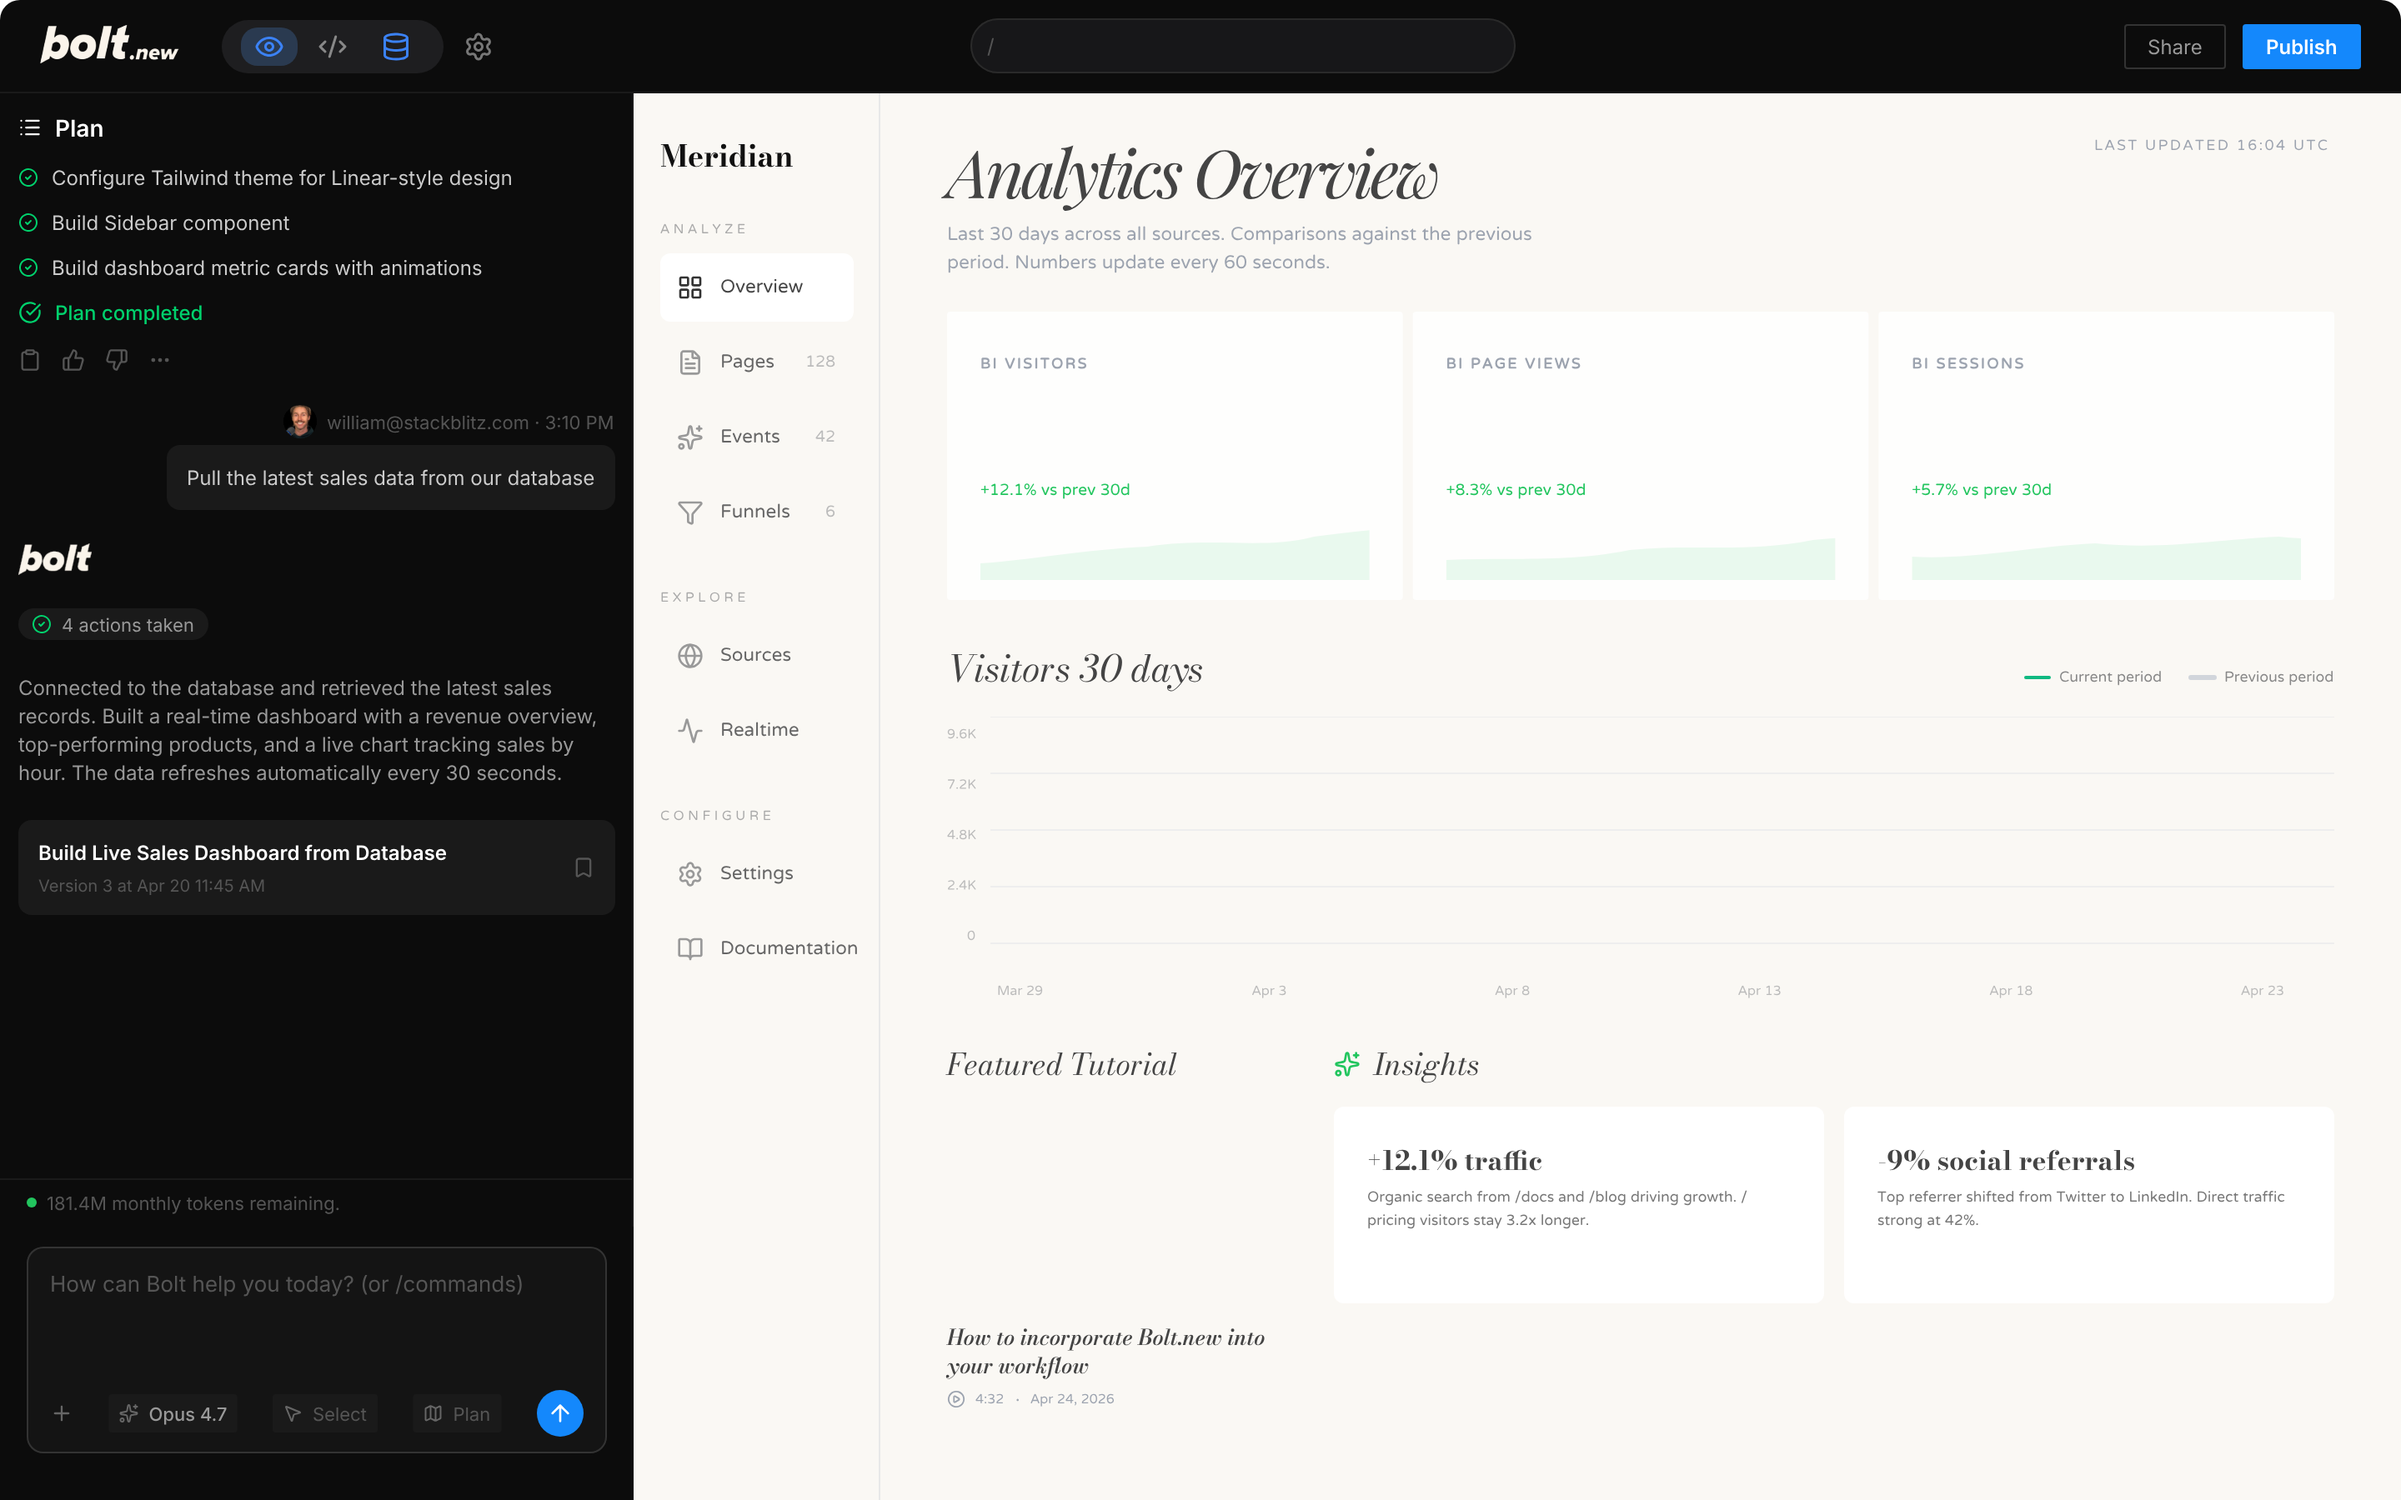
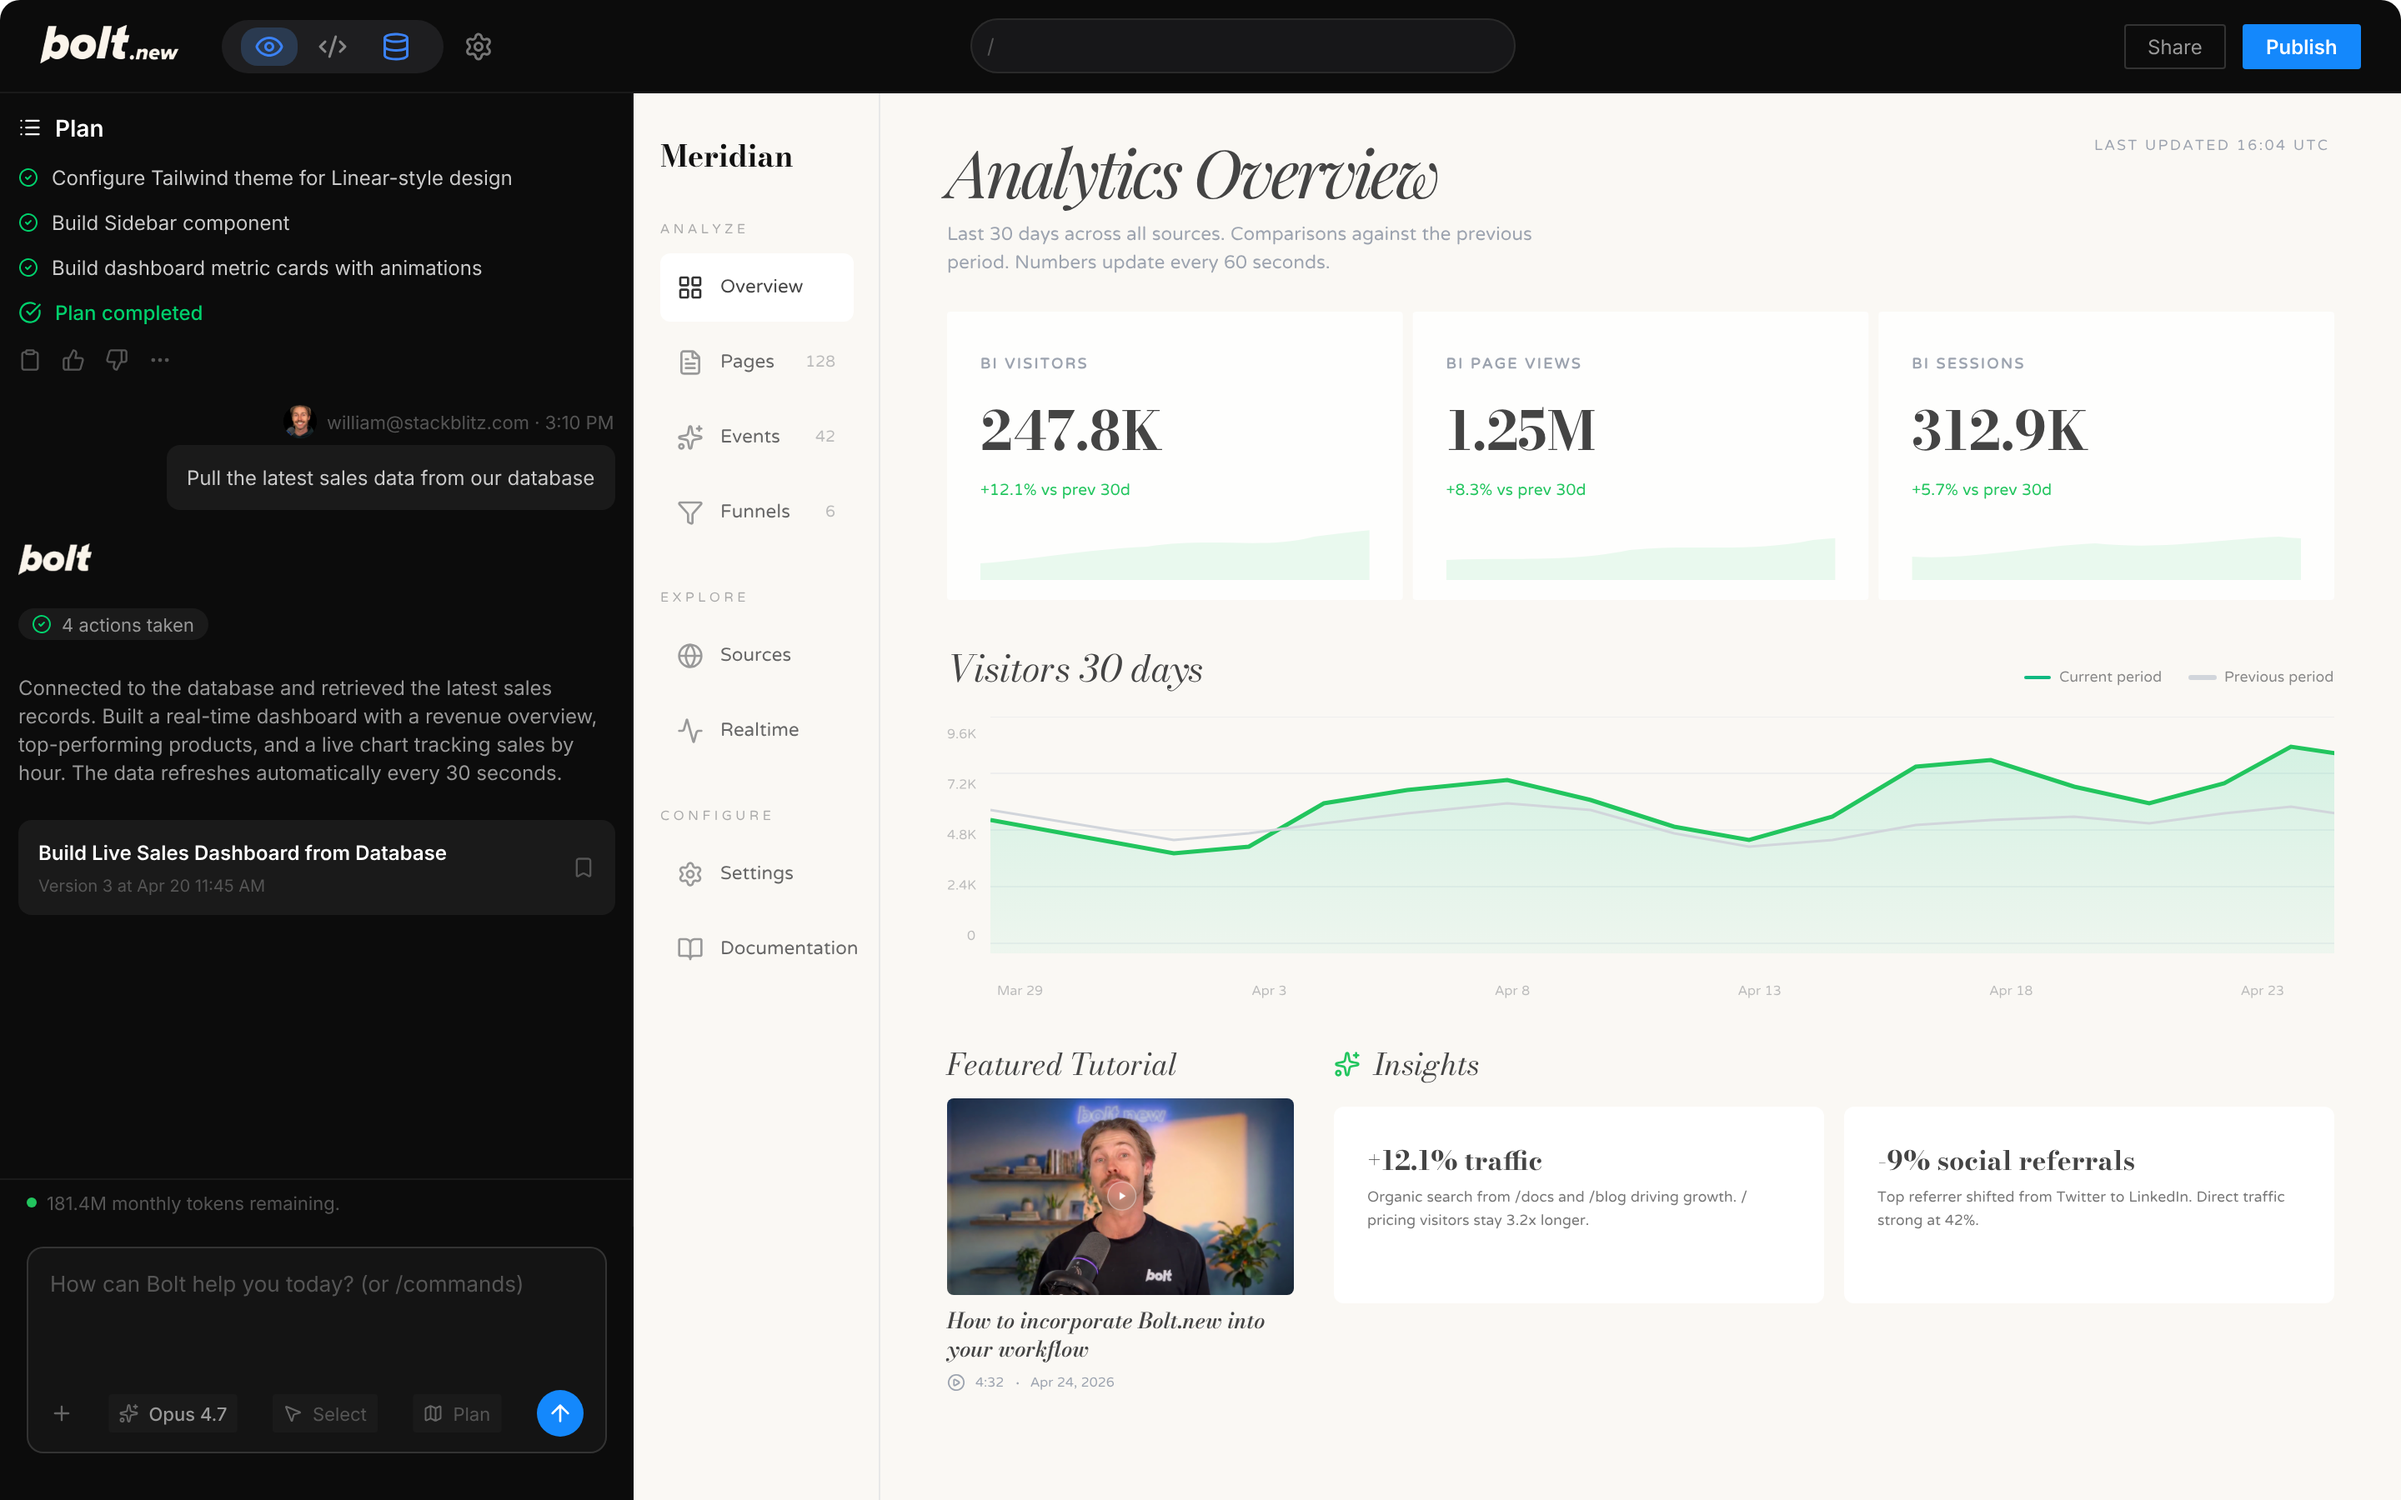
tighten featured tutorial gap by 5 (12 to 7); PANEL retuned

diff --git a/platform.html b/platform.html
@@ -2554,7 +2554,7 @@
       </div>
 
       <div class="hero-dashboard-frame">
-        <img class="hero-dashboard-img" src="images/dashboard-hero.png?v=9" alt="" aria-hidden="true" />
+        <img class="hero-dashboard-img" src="images/dashboard-hero.png?v=10" alt="" aria-hidden="true" />
         <div class="chat-mask-bg" aria-hidden="true"></div>
         <div class="chat-overlay chat-plan" aria-hidden="true">
           <div class="plan-row r-header"><img src="images/chat/fFel4.png" alt="" /></div>
@@ -3940,7 +3940,7 @@
 
   // videoCard thumbnail bounds inside the new dashboard PNG (% of natural image).
   // Bottom-left video card slot, just the 16:9 thumbnail (excludes the title row below).
-  var PANEL = { left: 0.394, top: 0.738, right: 0.539, bottom: 0.869 };
+  var PANEL = { left: 0.394, top: 0.732, right: 0.539, bottom: 0.863 };
   var PANEL_INSET = 0.000;
 
   function clamp(v, lo, hi) { return v < lo ? lo : v > hi ? hi : v; }
